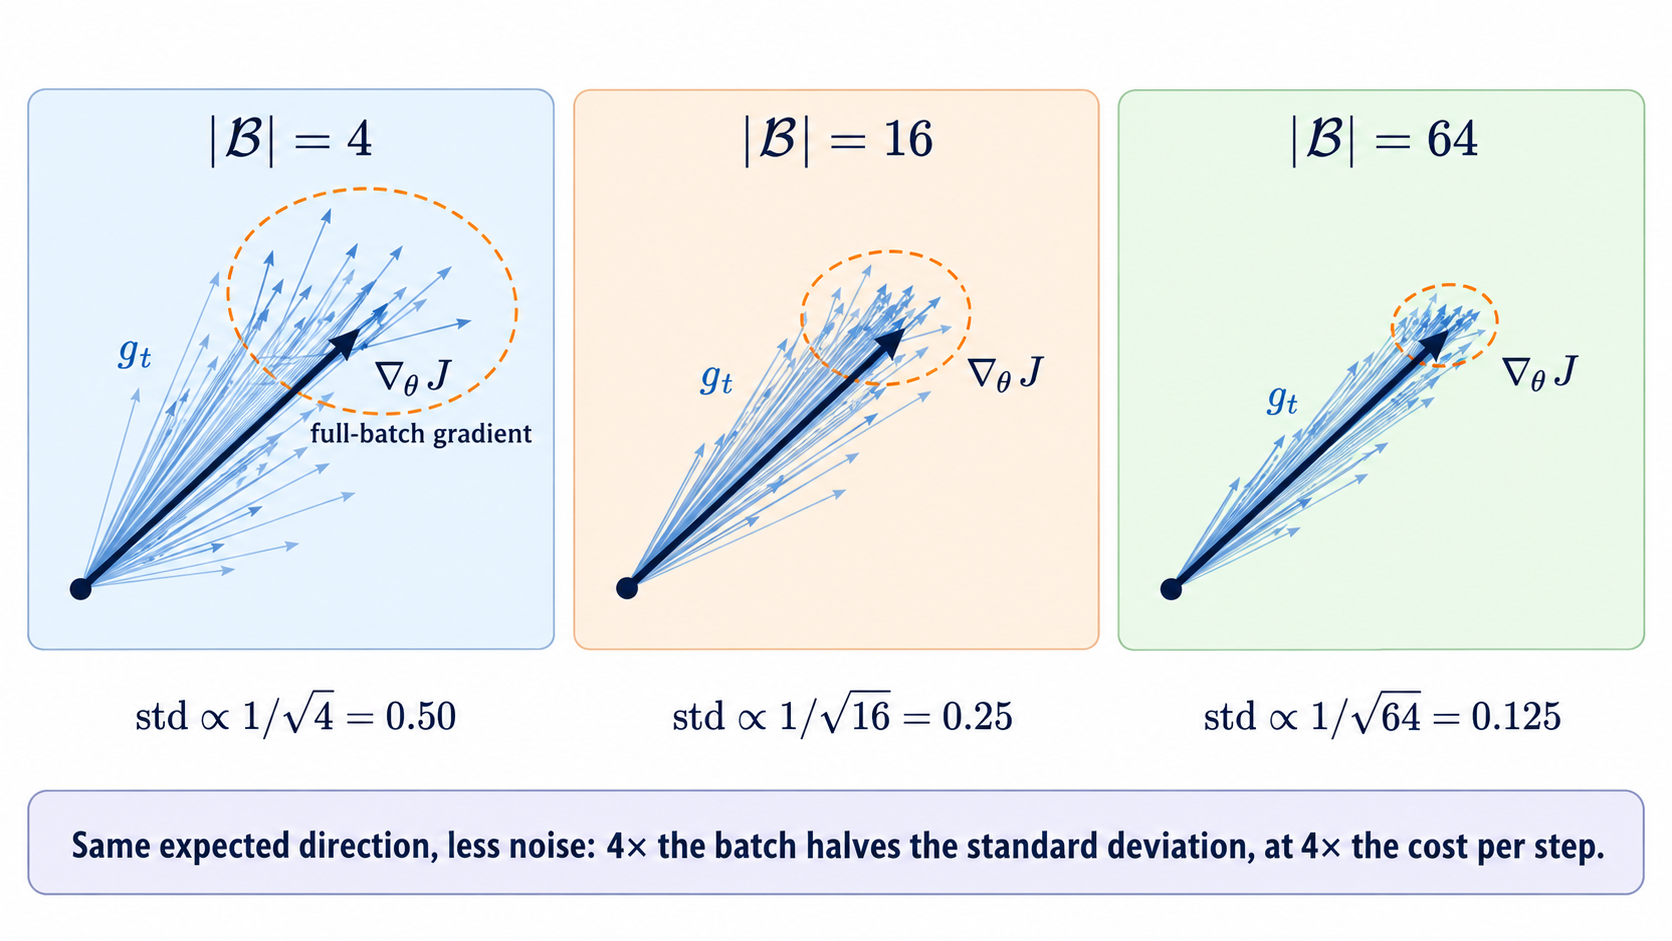
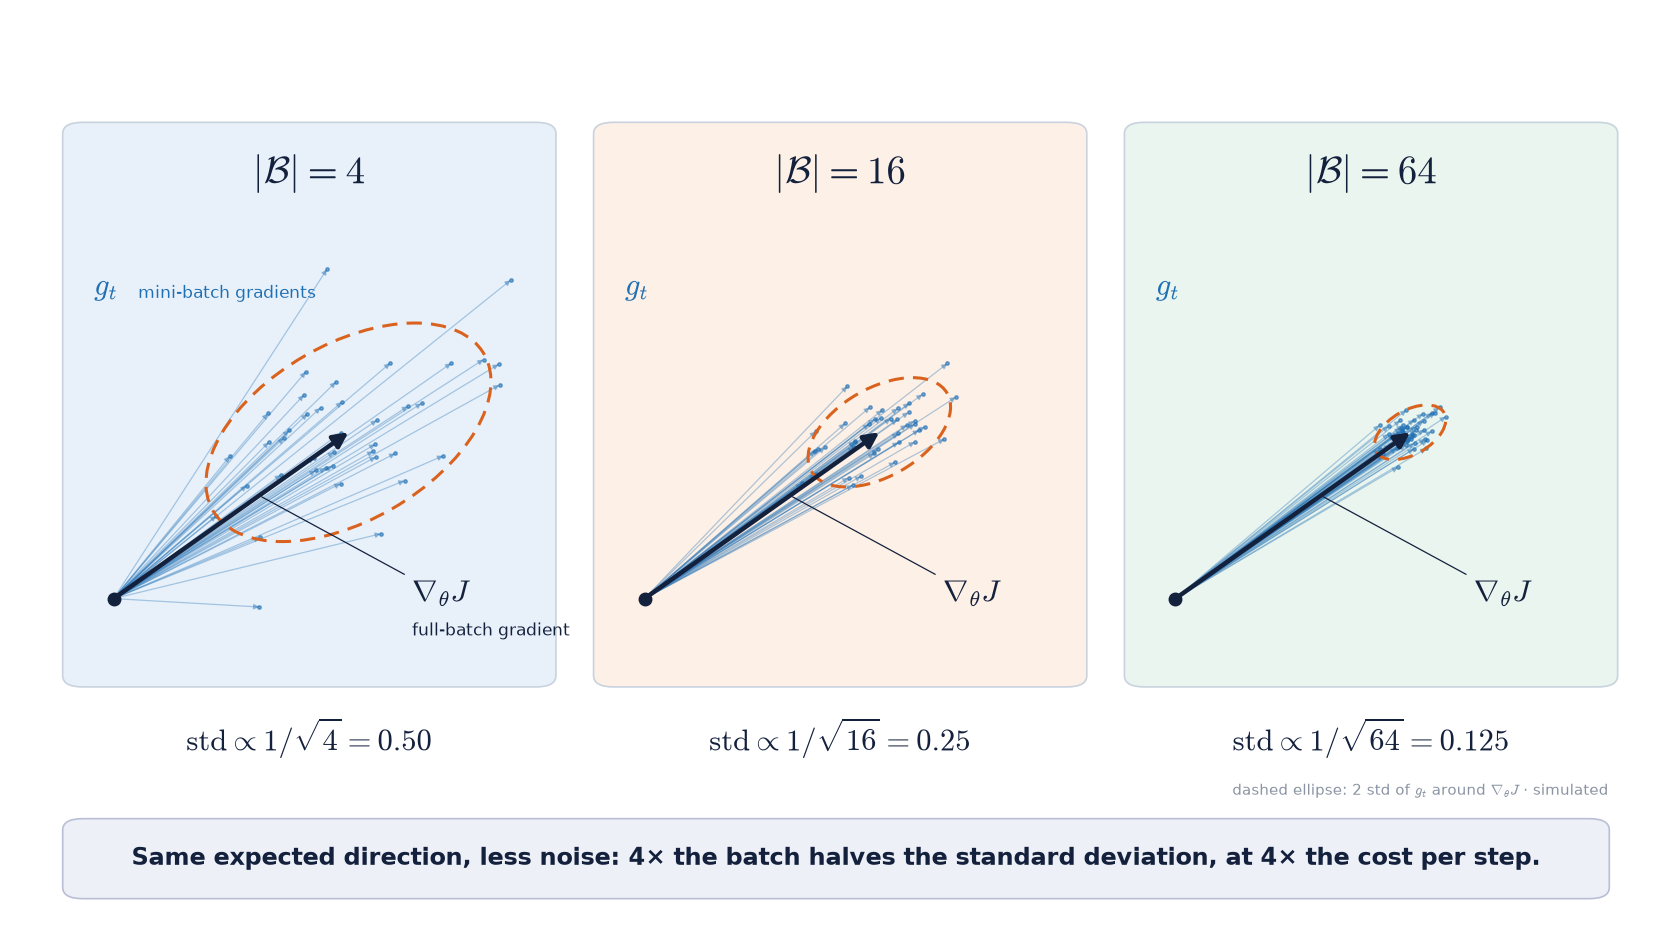
S02: redraw F22 from simulated mini-batch gradients (exact 1 : 1/2 : 1/4 spread)
Claude-Session: https://claude.ai/code/session_012SkrgDu3HsLNCjj3PJkQW9

diff --git a/sessions/02_deep_training/figures/make_s02_f22_batch_size_noise.py b/sessions/02_deep_training/figures/make_s02_f22_batch_size_noise.py
@@ -1,0 +1,56 @@
+# Generates s02_f22_batch_size_noise.png (simulated mini-batch gradients; usage: python make_s02_f22_batch_size_noise.py out.png)
+import numpy as np, matplotlib
+matplotlib.use('Agg')
+import matplotlib.pyplot as plt
+from matplotlib.patches import Ellipse, FancyBboxPatch
+
+NAVY, BLUE, ORANGE, GRAY = '#14213d', '#1f6fb4', '#d9631e', '#8a94a3'
+plt.rcParams.update({'mathtext.fontset': 'cm', 'font.family': 'DejaVu Sans'})
+W, H, DPI = 1672, 941, 100
+fig = plt.figure(figsize=(W / DPI, H / DPI), dpi=DPI)
+
+mu = np.array([2.4, 1.7])                       # full-batch gradient
+# per-example gradient covariance (elongated, rotated)
+th = np.deg2rad(30); R = np.array([[np.cos(th), -np.sin(th)], [np.sin(th), np.cos(th)]])
+S = R @ np.diag([1.6 ** 2, 0.9 ** 2]) @ R.T      # Cov_i(grad L_i)
+rng = np.random.default_rng(3)
+fills = ['#e8f1fa', '#fdf0e6', '#e9f5ee']
+batches = [4, 16, 64]
+pw, ph, gap, left, bottom = 0.295, 0.60, 0.0225, 0.0375, 0.27
+for j, B in enumerate(batches):
+    x0 = left + j * (pw + gap)
+    fig.patches.append(FancyBboxPatch((x0, bottom), pw, ph, boxstyle='round,pad=0,rounding_size=0.012',
+                                      transform=fig.transFigure, fc=fills[j], ec='#c9d3df', lw=1.2, zorder=-5))
+    ax = fig.add_axes([x0 + 0.01, bottom + 0.01, pw - 0.02, ph - 0.11])
+    ax.set_xlim(-0.35, 4.35); ax.set_ylim(-0.45, 3.55); ax.set_aspect('equal'); ax.axis('off')
+    C = S / B
+    G = rng.multivariate_normal(mu, C, size=40)
+    G = G - G.mean(0) + mu                      # show the cloud centred on the full gradient
+    for g in G:
+        ax.annotate('', xy=g, xytext=(0, 0), arrowprops=dict(arrowstyle='-|>', color=BLUE, alpha=0.35,
+                                                             lw=0.9, mutation_scale=8, shrinkA=0, shrinkB=0))
+    ax.scatter(G[:, 0], G[:, 1], s=6, color=BLUE, alpha=0.6, zorder=3)
+    vals, vecs = np.linalg.eigh(C)
+    ang = np.degrees(np.arctan2(vecs[1, 1], vecs[0, 1]))
+    ax.add_patch(Ellipse(mu, 2 * 2 * np.sqrt(vals[1]), 2 * 2 * np.sqrt(vals[0]), angle=ang, fill=False,
+                         ec=ORANGE, lw=2.2, ls=(0, (5, 3)), zorder=4))
+    ax.annotate('', xy=mu, xytext=(0, 0), arrowprops=dict(arrowstyle='-|>', color=NAVY, lw=3.2,
+                                                          mutation_scale=22, shrinkA=0, shrinkB=0), zorder=5)
+    ax.plot(0, 0, 'o', color=NAVY, ms=9, zorder=6)
+    lab = (3.05, 0.05)
+    ax.annotate(r'$\nabla_\theta J$', xy=0.62 * mu, xytext=lab, fontsize=22, color=NAVY, zorder=7,
+                ha='left', va='center', arrowprops=dict(arrowstyle='-', color=NAVY, lw=0.9, shrinkA=4, shrinkB=2))
+    if j == 0:
+        ax.text(lab[0], lab[1] - 0.38, 'full-batch gradient', fontsize=12.5, color=NAVY, ha='left', va='center')
+    ax.text(-0.2, 3.1, r'$g_t$', fontsize=22, color=BLUE)
+    ax.text(0.25, 3.12, 'mini-batch gradients' if j == 0 else '', fontsize=12.5, color=BLUE, va='center')
+    fig.text(x0 + pw / 2, bottom + ph - 0.055, rf'$|\mathcal{{B}}| = {B}$', ha='center', va='center',
+             fontsize=28, color=NAVY)
+    fig.text(x0 + pw / 2, bottom - 0.055, rf'$\mathrm{{std}} \propto 1/\sqrt{{{B}}} = {["0.50","0.25","0.125"][j]}$',
+             ha='center', va='center', fontsize=22, color=NAVY)
+fig.text(0.9625, 0.155, 'dashed ellipse: 2 std of $g_t$ around $\\nabla_\\theta J$ · simulated', fontsize=11, color=GRAY, ha='right')
+fig.patches.append(FancyBboxPatch((0.0375, 0.045), 0.925, 0.085, boxstyle='round,pad=0,rounding_size=0.012',
+                                  transform=fig.transFigure, fc='#eef0f8', ec='#b9bfd6', lw=1.2, zorder=-5))
+fig.text(0.5, 0.0875, 'Same expected direction, less noise: 4× the batch halves the standard deviation, '
+         'at 4× the cost per step.', ha='center', va='center', fontsize=17, color=NAVY, weight='bold')
+fig.savefig(__import__('sys').argv[1], dpi=DPI, facecolor='white')

diff --git a/sessions/02_deep_training/figures/figures.md b/sessions/02_deep_training/figures/figures.md
@@ -37,7 +37,7 @@ Pending figures are HTML comments in the slide source (`<!-- Pending figure: ...
 | **S02-F19** | V71 | Map from symptoms to measurements and training interventions | `s02_f19_training_diagnostics_map.png` | PNG | Included |
 | **S02-F20** | V75 | Integrated view of mechanisms that make deep training possible | `s02_f20_deep_training_summary.png` | PNG | Included |
 | **S02-F21** | V20 | ReLU, Leaky ReLU and GELU with derivatives; dead region highlighted | `s02_f21_relu_variants.png` | PNG | Included |
-| **S02-F22** | V35 | Gradient-estimate spread versus batch size around the full-batch gradient | `s02_f22_batch_size_noise.png` | PNG | Included |
+| **S02-F22** | V35 | Gradient-estimate spread versus batch size around the full-batch gradient | `s02_f22_batch_size_noise.png` | PNG (matplotlib, `make_s02_f22_batch_size_noise.py`) | Included |
 | **S02-F23** | V51 | BatchNorm versus LayerNorm: normalized axis of the (batch × features) tensor | `s02_f23_batchnorm_vs_layernorm.png` | PNG | Included |
 | **S02-F24** | V61 | One image and several label-preserving augmentations | `s02_f24_data_augmentation.png` | PNG | TODO |
 | **S02-F25** | V07 | Deep MLP forward pass with example activations and softmax output | `s02_f25_deep_mlp_forward.png` | PNG | Included — notation differs from deck |
